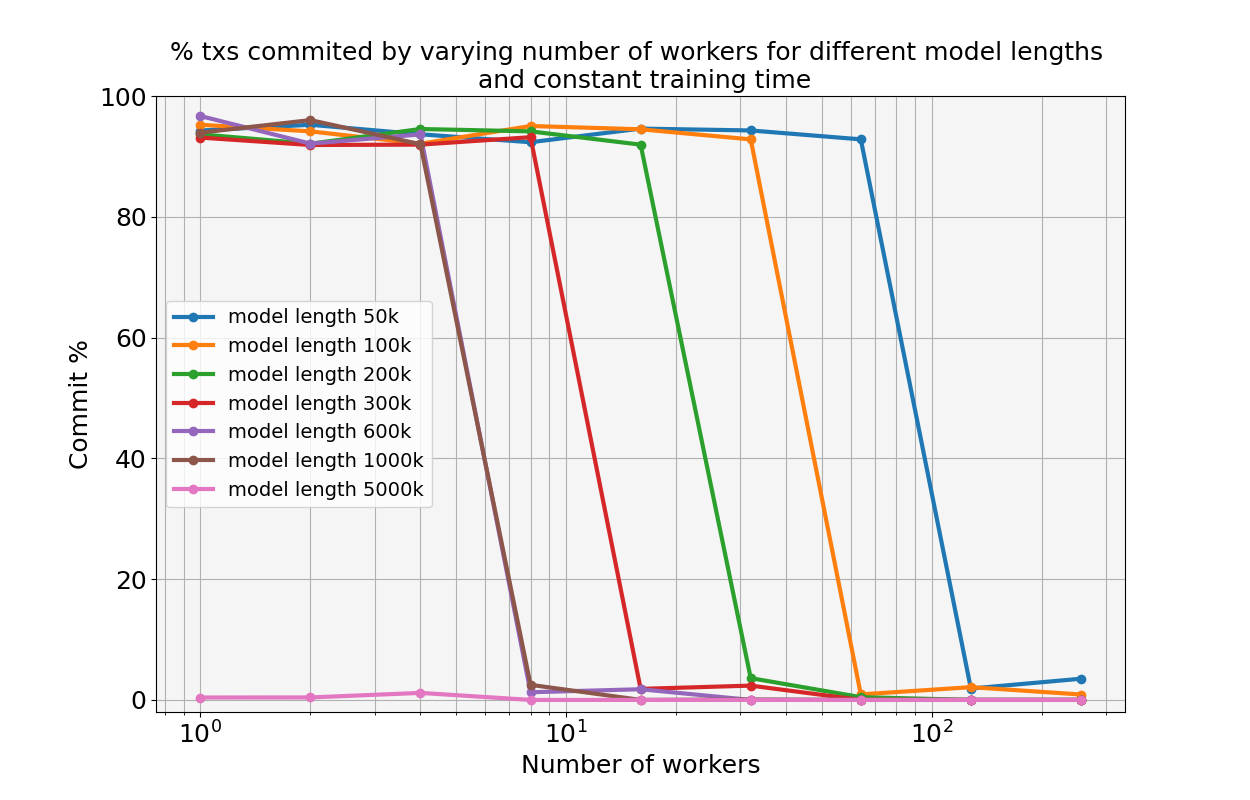
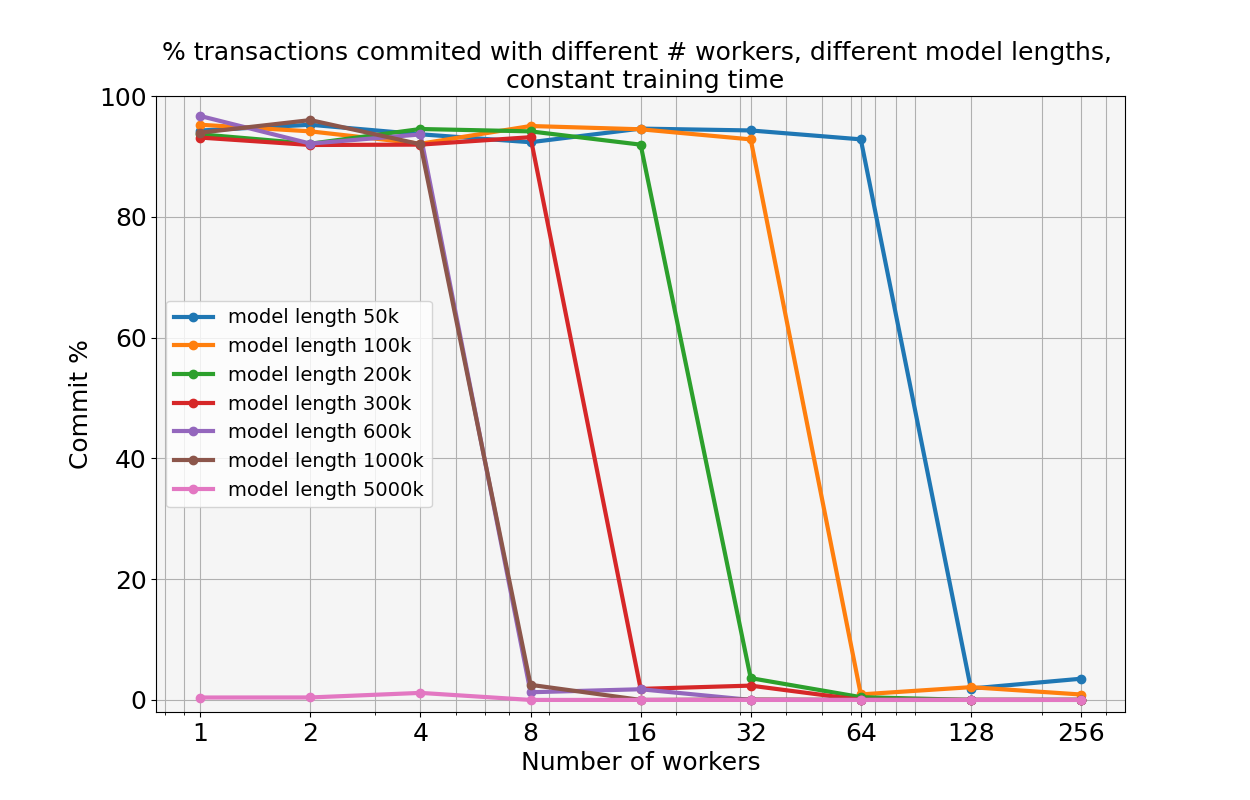
fixed array for constant time + according python code

diff --git a/script/aws_script/read_results.py b/script/aws_script/read_results.py
@@ -87,7 +87,7 @@ def plot_max_array_length():
     fontsize = 18
     plt.xticks(model_length_range, [str(int(x/1000)) + 'k'
                for x in model_length_range])
-    plt.title("Percentage of committed transactions for different array size",
+    plt.title("Percentage of commited transactions for different array size",
               fontsize=fontsize+2)
     plt.xlabel("Array size",
                fontsize=fontsize)
@@ -237,12 +237,14 @@ def plot_varying_perf_constant_time():
     fig.set_size_inches(12.5, 8)
     fontsize = 18
     plt.title(
-        "% txs commited by varying number of workers for different model lengths \n and constant training time",
+        "% transactions commited with different # workers, different model lengths, \n constant training time",
         fontdict={'fontsize': fontsize})
     # increase font size of title
     plt.rcParams.update({'font.size': 14})
     plt.xlabel("Number of workers", fontsize=fontsize)
     plt.ylabel("Commit %", fontsize=fontsize)
+    plt.xticks(fontsize=fontsize-2)
+    plt.yticks(fontsize=fontsize-2)
     plt.xscale("log")
     plt.ylim(-2, 100)
     for i in range(len(model_perf)):
@@ -259,6 +261,8 @@ def plot_varying_perf_constant_time():
     # increase size of x and y ticks
     plt.xticks(fontsize=fontsize)
     plt.yticks(fontsize=fontsize)
+    ax.set_xticks(workers_range)
+    ax.set_xticklabels(workers_range)
     # add border to legend
     plt.savefig(
         "/home/user/ml_on_blockchain/results/images/aws/constant_time/all.png")
@@ -272,7 +276,7 @@ def plot_max_n_workers_as_model_length():
     fig.set_size_inches(12.5, 8)
     fontsize = 18
     plt.title(
-        "Max number of workers to get at least 90% committed txs",
+        "Max number of workers to get at least 90% commited txs",
         # "Max number of workers as a function of model length \n and constant training time",
         fontdict={'fontsize': fontsize})
     plt.ylabel("Number of workers", fontsize=fontsize)
@@ -305,6 +309,6 @@ def plot_max_n_workers_as_model_length():
 
 if __name__ == "__main__":
     # plot_max_array_length()
-    plot_varying_perf()
-    # plot_varying_perf_constant_time()
+    # plot_varying_perf()
+    plot_varying_perf_constant_time()
     # plot_max_n_workers_as_model_length()
